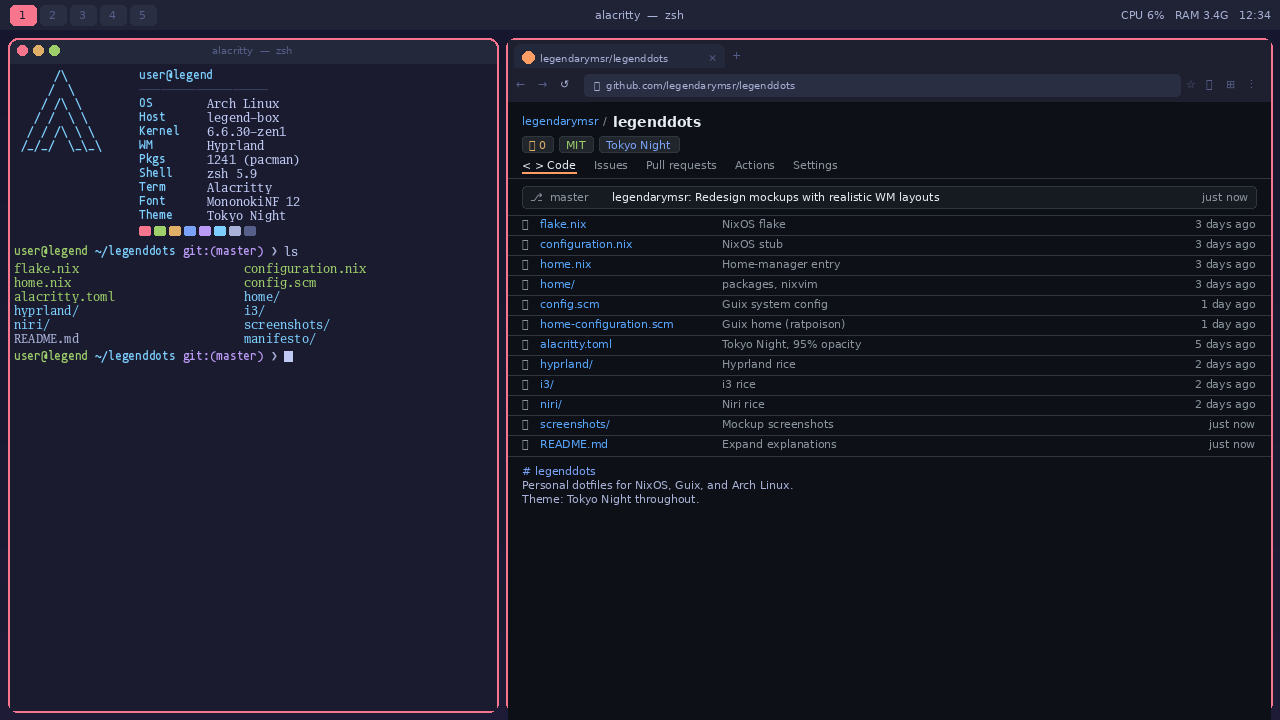
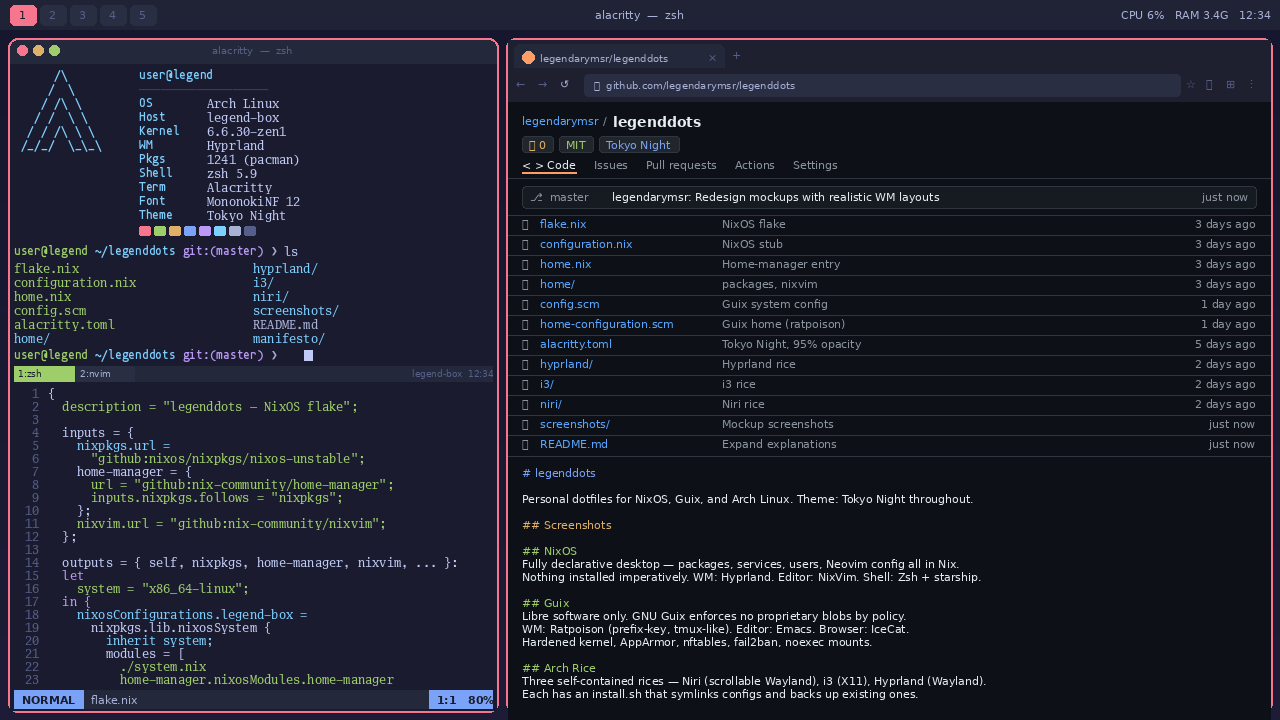
Fill empty space: nvim pane with flake.nix below shell, full README in browser

diff --git a/screenshots/gen.py b/screenshots/gen.py
@@ -245,6 +245,74 @@ LS_OUTPUT = [
 ]
 COLOR_BLOCKS = [RED, GREEN, YELLOW, ACCENT, PURPLE, CYAN, FG2, DIM]
 
+NIX_CODE = [
+    ("{",                                                         FG),
+    ('  description = "legenddots — NixOS flake";',              GREEN),
+    ("",                                                          FG),
+    ("  inputs = {",                                              FG),
+    ("    nixpkgs.url =",                                         CYAN),
+    ('      "github:nixos/nixpkgs/nixos-unstable";',             GREEN),
+    ("    home-manager = {",                                      FG),
+    ('      url = "github:nix-community/home-manager";',         GREEN),
+    ('      inputs.nixpkgs.follows = "nixpkgs";',                GREEN),
+    ("    };",                                                    FG),
+    ('    nixvim.url = "github:nix-community/nixvim";',          GREEN),
+    ("  };",                                                      FG),
+    ("",                                                          FG),
+    ("  outputs = { self, nixpkgs, home-manager, nixvim, ... }:", FG),
+    ("  let",                                                     PURPLE),
+    ('    system = "x86_64-linux";',                             GREEN),
+    ("  in {",                                                    PURPLE),
+    ("    nixosConfigurations.legend-box =",                      CYAN),
+    ("      nixpkgs.lib.nixosSystem {",                           FG),
+    ("        inherit system;",                                   CYAN),
+    ("        modules = [",                                       FG),
+    ("          ./system.nix",                                    GREEN),
+    ("          home-manager.nixosModules.home-manager",          GREEN),
+    ("          nixvim.nixosModules.nixvim",                      GREEN),
+    ("        ];",                                                FG),
+    ("      };",                                                  FG),
+    ("  };",                                                      FG),
+    ("}",                                                         FG),
+]
+
+def draw_nvim_pane(d, fn, x, y, w, h, filename="flake.nix", code=None, accent=ACCENT):
+    """Neovim mockup with line numbers, syntax-coloured code, lualine statusbar."""
+    if code is None:
+        code = NIX_CODE
+    LUALINE_H = 18
+    LN_W = 34     # line-number column width
+
+    # background
+    d.rectangle([x, y, x+w, y+h], fill=rgb(BG))
+
+    # lualine at bottom
+    sl_y = y + h - LUALINE_H
+    d.rectangle([x, sl_y, x+w, y+h], fill=rgb(BG3))
+    # mode pill
+    mode_txt = "  NORMAL  "
+    mw = tw(d, mode_txt, fn["bar_b"])
+    d.rectangle([x, sl_y, x+mw, y+h], fill=rgb(accent))
+    d.text((x, sl_y+3), mode_txt, font=fn["bar_b"], fill=rgb(BG))
+    # filename
+    d.text((x+mw+8, sl_y+3), filename, font=fn["bar"], fill=rgb(FG2))
+    # right: position
+    pos = "  1:1   80% "
+    pw = tw(d, pos, fn["bar"])
+    d.rectangle([x+w-pw, sl_y, x+w, y+h], fill=rgb(accent))
+    d.text((x+w-pw, sl_y+3), pos, font=fn["bar_b"], fill=rgb(BG))
+
+    # code lines
+    lh = 13
+    cy2 = y + 4
+    for i, (line, col) in enumerate(code):
+        if cy2 + lh > sl_y - 2:
+            break
+        ln = str(i + 1).rjust(3)
+        d.text((x+4, cy2), ln, font=fn["mono_r"], fill=rgb(DIM))
+        d.text((x+LN_W, cy2), line, font=fn["mono_r"], fill=rgb(col))
+        cy2 += lh
+
 def draw_terminal(d, fn, cx, cy, cw, ch, os_name, wm, pkgs):
     art_map   = {"NixOS": (NIXOS_ART, ACCENT),
                  "GNU Guix": (GUIX_ART, GREEN),
@@ -259,7 +327,7 @@ def draw_terminal(d, fn, cx, cy, cw, ch, os_name, wm, pkgs):
         d.text((x, y), line, font=fn["mono_b"], fill=rgb(col))
         y += lh
 
-    # info block starts at logo top
+    # info block (starts at same y as logo)
     ix = cx + 125
     iy = cy
     def iline(key, val, kc=CYAN, vc=FG):
@@ -285,50 +353,63 @@ def draw_terminal(d, fn, cx, cy, cw, ch, os_name, wm, pkgs):
         d.rounded_rectangle([bx, iy, bx+11, iy+9], radius=2, fill=rgb(bc))
     iy += 18
 
-    # shell prompt
+    # cursor is at max(logo_end, info_end)
+    iy = max(y, iy)
+
+    # shell prompt + ls
     prompt = "user@legend"
     path   = " ~/legenddots"
     git    = " git:(master)"
     cur    = " ❯ "
-    px = cx
-    d.text((px, iy), prompt, font=fn["mono_b"], fill=rgb(GREEN)); px += tw(d,prompt,fn["mono_b"])
-    d.text((px, iy), path,   font=fn["mono_b"], fill=rgb(CYAN));  px += tw(d,path,  fn["mono_b"])
-    d.text((px, iy), git,    font=fn["mono_b"], fill=rgb(PURPLE));px += tw(d,git,   fn["mono_b"])
-    d.text((px, iy), cur,    font=fn["mono_b"], fill=rgb(FG2));   px += tw(d,cur,   fn["mono_b"])
-    d.text((px, iy), "ls",   font=fn["mono_r"], fill=rgb(FG))
-    iy += lh + 3
 
-    # ls output in 2 columns
-    col_w = (cw - cx - 4) // 2
-    lx1 = cx
-    lx2 = cx + col_w
-    for i, (name, fc) in enumerate(LS_OUTPUT):
-        if iy > cy + ch - lh:
-            break
-        lx = lx1 if i % 2 == 0 else lx2
-        if i % 2 == 1:
-            d.text((lx, iy - lh), name, font=fn["mono_r"], fill=rgb(fc))
-        else:
-            d.text((lx, iy), name, font=fn["mono_r"], fill=rgb(fc))
-            if i % 2 == 0 and i + 1 >= len(LS_OUTPUT):
-                iy += lh
-        if i % 2 == 1:
-            pass
-        else:
-            iy += lh
-
-    iy += 4
-    # second prompt (blinking cursor)
-    if iy < cy + ch - lh:
+    def draw_prompt(cmd=""):
+        nonlocal iy
         px = cx
         d.text((px, iy), prompt, font=fn["mono_b"], fill=rgb(GREEN)); px += tw(d,prompt,fn["mono_b"])
         d.text((px, iy), path,   font=fn["mono_b"], fill=rgb(CYAN));  px += tw(d,path,  fn["mono_b"])
         d.text((px, iy), git,    font=fn["mono_b"], fill=rgb(PURPLE));px += tw(d,git,   fn["mono_b"])
-        d.text((px, iy), cur,    font=fn["mono_b"], fill=rgb(FG2))
+        d.text((px, iy), cur,    font=fn["mono_b"], fill=rgb(FG2));   px += tw(d,cur,   fn["mono_b"])
+        if cmd:
+            d.text((px, iy), cmd, font=fn["mono_r"], fill=rgb(FG))
         iy += lh
-        # blinking block cursor
-        d.rectangle([px + tw(d,cur,fn["mono_b"]), iy-lh+2,
-                     px + tw(d,cur,fn["mono_b"])+8, iy-2], fill=rgb(FG))
+        return px + tw(d, cur, fn["mono_b"])
+
+    draw_prompt("ls")
+    iy += 3
+
+    # ls in 2 columns
+    half = len(LS_OUTPUT) // 2 + len(LS_OUTPUT) % 2
+    col_w = cw // 2
+    for i in range(half):
+        if iy > cy + ch - lh * 8:
+            break
+        name_l, fc_l = LS_OUTPUT[i]
+        d.text((cx,        iy), name_l, font=fn["mono_r"], fill=rgb(fc_l))
+        if i + half < len(LS_OUTPUT):
+            name_r, fc_r = LS_OUTPUT[i + half]
+            d.text((cx+col_w, iy), name_r, font=fn["mono_r"], fill=rgb(fc_r))
+        iy += lh
+
+    iy += 3
+    cursor_x = draw_prompt()  # empty prompt with cursor
+    d.rectangle([cursor_x, iy-lh+2, cursor_x+8, iy-2], fill=rgb(FG))
+    iy += 4
+
+    # ── tmux split line + neovim pane ─────────────────────────────────────
+    remaining = (cy + ch) - iy
+    if remaining > 60:
+        TMUX_H = 16
+        # tmux status bar
+        d.rectangle([cx, iy, cx+cw, iy+TMUX_H], fill=rgb(BG3))
+        d.rectangle([cx, iy, cx+60, iy+TMUX_H], fill=rgb(GREEN))
+        d.text((cx+4, iy+2), "1:zsh", font=fn["tiny"], fill=rgb(BG))
+        d.rectangle([cx+62, iy, cx+120, iy+TMUX_H], fill=rgb(BG4))
+        d.text((cx+66, iy+2), "2:nvim", font=fn["tiny"], fill=rgb(FG2))
+        d.text((cx+cw-80, iy+2), "legend-box  12:34", font=fn["tiny"], fill=rgb(DIM))
+        iy += TMUX_H
+
+        # neovim fills the rest
+        draw_nvim_pane(d, fn, cx, iy, cw, cy+ch-iy, filename="flake.nix")
 
 # ══════════════════════════════════════════════════════════════════════════
 # Brave browser (Chromium-style)
@@ -530,17 +611,45 @@ def draw_github(d, fn, x, y, w, h):
     # README preview below file list
     if py + 30 < y + h:
         d.line([x, py, x+w, py], fill=rgb(GH_BDR))
-        py += 8
+        py += 10
         readme = [
-            (ACCENT, "# legenddots"),
-            (FG2,    "Personal dotfiles for NixOS, Guix, and Arch Linux."),
-            (FG2,    "Theme: Tokyo Night throughout."),
+            (ACCENT,  "# legenddots"),
+            (GH_FG2,  ""),
+            (GH_FG,   "Personal dotfiles for NixOS, Guix, and Arch Linux. Theme: Tokyo Night throughout."),
+            (GH_FG2,  ""),
+            (YELLOW,  "## Screenshots"),
+            (GH_FG2,  ""),
+            (GREEN,   "## NixOS"),
+            (GH_FG,   "Fully declarative desktop — packages, services, users, Neovim config all in Nix."),
+            (GH_FG,   "Nothing installed imperatively. WM: Hyprland. Editor: NixVim. Shell: Zsh + starship."),
+            (GH_FG2,  ""),
+            (GREEN,   "## Guix"),
+            (GH_FG,   "Libre software only. GNU Guix enforces no proprietary blobs by policy."),
+            (GH_FG,   "WM: Ratpoison (prefix-key, tmux-like). Editor: Emacs. Browser: IceCat."),
+            (GH_FG,   "Hardened kernel, AppArmor, nftables, fail2ban, noexec mounts."),
+            (GH_FG2,  ""),
+            (GREEN,   "## Arch Rice"),
+            (GH_FG,   "Three self-contained rices — Niri (scrollable Wayland), i3 (X11), Hyprland (Wayland)."),
+            (GH_FG,   "Each has an install.sh that symlinks configs and backs up existing ones."),
+            (GH_FG2,  ""),
+            (YELLOW,  "## Keybinds"),
+            (GH_FG2,  "Arch rices use Mod (Super). Ratpoison uses a prefix key C-t like Tmux."),
+            (GH_FG2,  ""),
+            (GH_FG2,  "| Action          | Arch (Mod+)   | Guix (C-t then) |"),
+            (GH_BDR,  "|-----------------|---------------|-----------------|"),
+            (GH_FG2,  "| Terminal        | Return        | c               |"),
+            (GH_FG2,  "| Launcher        | d             | d               |"),
+            (GH_FG2,  "| Browser         | b             | b               |"),
+            (GH_FG2,  "| Close window    | Shift+q       | q               |"),
+            (GH_FG2,  "| Exit            | q             | Q               |"),
+            (GH_FG2,  "| Focus           | h/j/k/l       | h/j/k/l         |"),
+            (GH_FG2,  "| Workspace       | 1-9           | 1-9             |"),
         ]
         for rc, rl in readme:
-            if py + 14 > y + h:
+            if py + 13 > y + h:
                 break
             d.text((px, py), rl, font=fn["gh_sm"], fill=rgb(rc))
-            py += 14
+            py += 13
 
 # ══════════════════════════════════════════════════════════════════════════
 # Font registry
